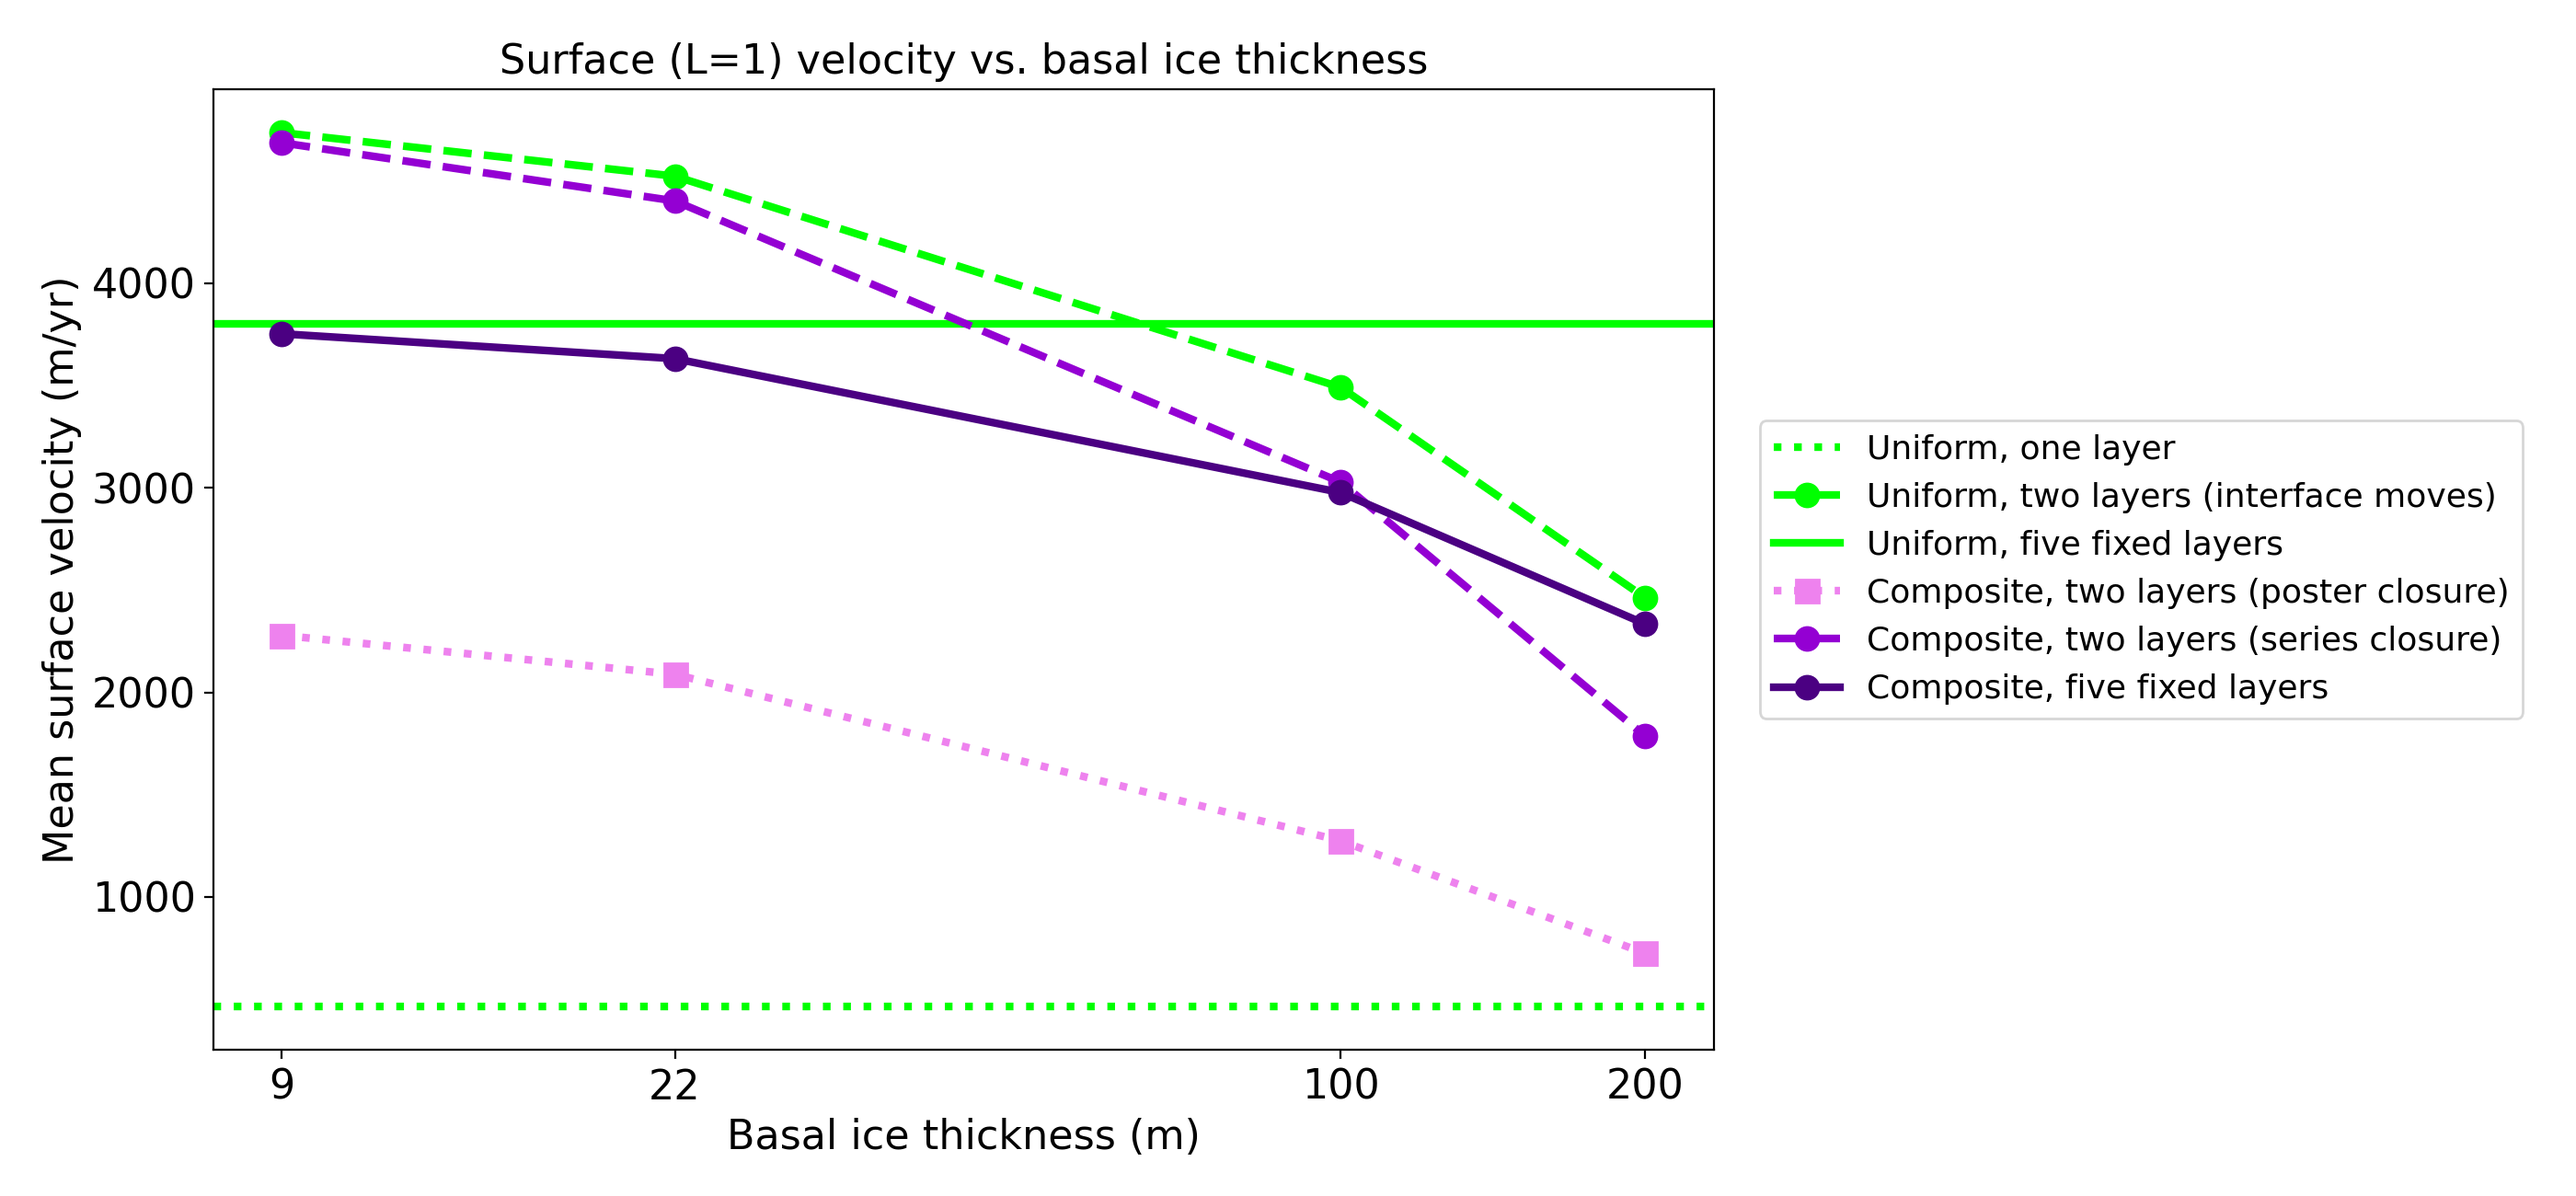
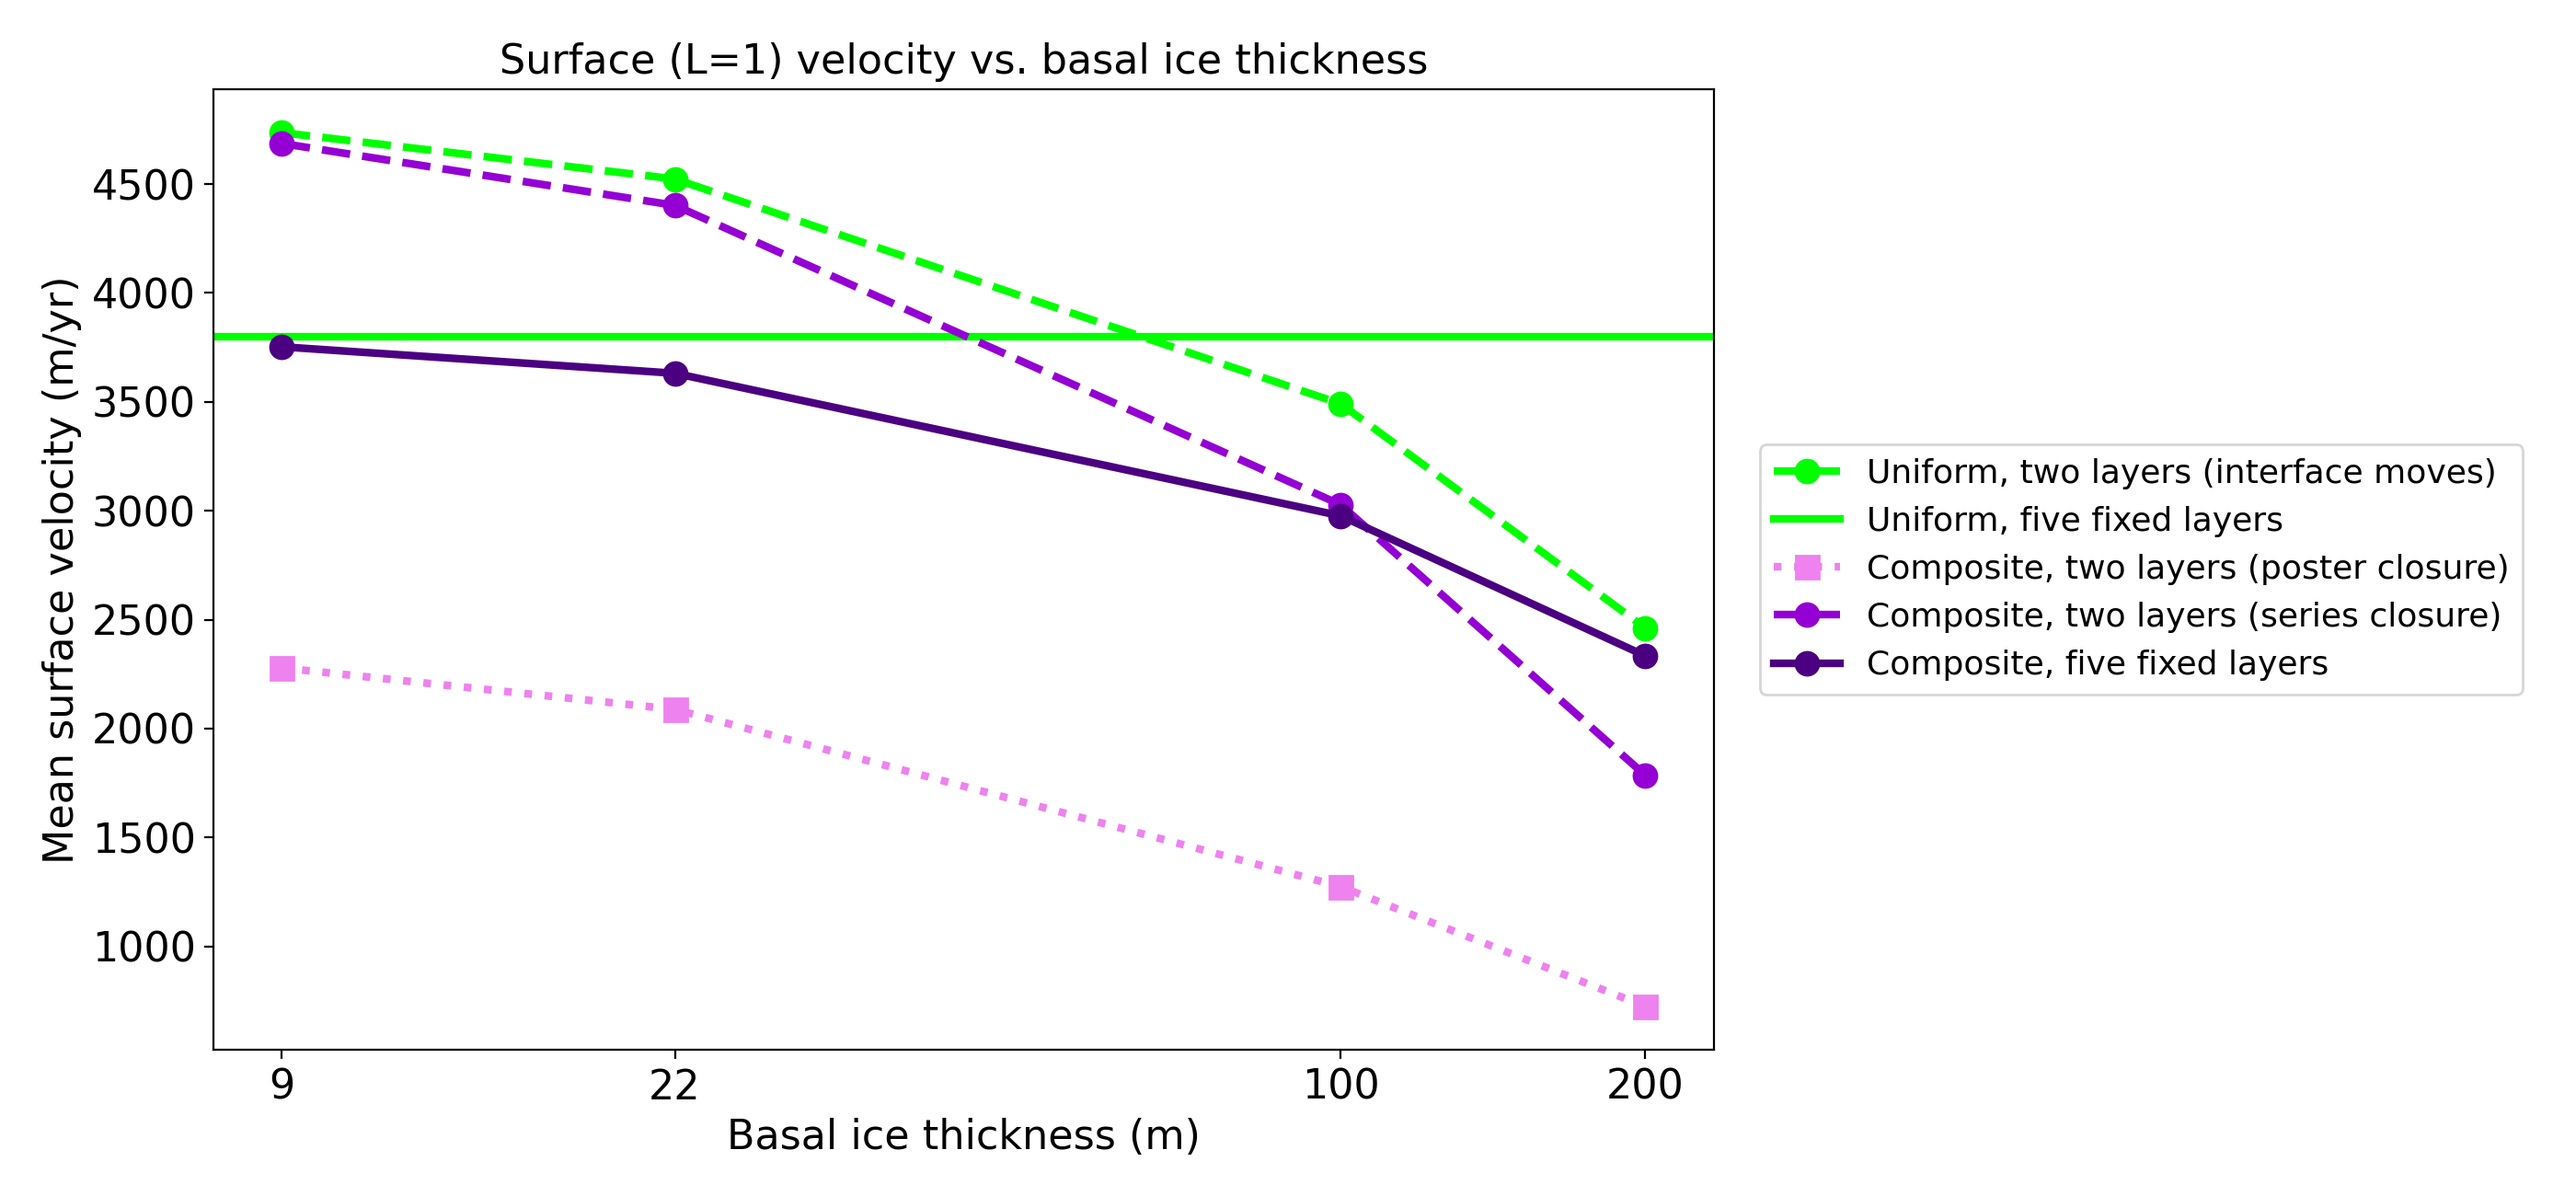
Remove the one-layer run, which is plain SSA
The one-layer column reduces to SSA, already covered by the multilayer
package's own ISMIP-HOM D experiment.

diff --git a/experiments.py b/experiments.py
@@ -7,7 +7,6 @@ resolves vertical shear.  Here the interfaces are seeded once, at every
 basal-layer height the poster used, and only the assignment of rheology to
 layers changes:
 
-``uniform``   one layer of stratigraphic ice: the plug-flow reference.
 ``fixed``    the seeded column; the bottom k layers soft, the rest cold,
               k = 0 .. len(INTERFACE_HEIGHTS).
 ``variable``  the poster's two-layer column, interface at each height,
@@ -69,7 +68,7 @@ def runs(heights=INTERFACE_HEIGHTS, soft=SOFT, cold=COLD):
     """Every run as (experiment, tag, fractions, laws, basal fraction)."""
     fractions = seeded_fractions(heights)
     tops = np.cumsum(fractions)
-    out = [("uniform", "L1", (1.0,), (cold,), 0.0, "series")]
+    out = []
     for k in range(len(fractions)):
         laws = (soft,) * k + (cold,) * (len(fractions) - k)
         out.append(("fixed", f"k{k}", fractions, laws,
@@ -113,7 +112,7 @@ def main():
     parser.add_argument("--nx", type=int, default=40,
                         help="cells per side (default %(default)d)")
     parser.add_argument("--only", nargs="+",
-                        choices=("uniform", "fixed", "variable", "poster", "split", "refine"),
+                        choices=("fixed", "variable", "poster", "split", "refine"),
                         help="run only these experiments; 'refine' is slow "
                              "(10+ min per 20-layer run) and runs only when named")
     parser.add_argument("--force", action="store_true",

diff --git a/plot_results.py b/plot_results.py
@@ -109,11 +109,8 @@ def summary(directory, path):
         [mean_surface(load(directory, e, f"h{h:.4f}")) for h in heights]
         for e in ("variable", "poster", "split"))
     uniform5 = mean_surface(load(directory, "fixed", "k0"))
-    uniform1 = mean_surface(load(directory, "uniform", "L1"))
 
     fig, ax = plt.subplots(figsize=(14, 6.5))
-    ax.axhline(uniform1, color=ps.UNIFORM, lw=3, ls=":",
-               label="Uniform, one layer")
     ax.plot(metres, split, "o--", color=ps.UNIFORM, lw=3, ms=9,
             label="Uniform, two layers (interface moves)")
     ax.axhline(uniform5, color=ps.UNIFORM, lw=3,

diff --git a/readme.md b/readme.md
@@ -33,7 +33,7 @@ the whole jump (multilayer's default); that is kept as `interface="below"`.
 
 ## Experiments
 
-`experiments.py` runs five sets by default, plus the opt-in `refine` set
+`experiments.py` runs four sets by default, plus the opt-in `refine` set
 (see [Vertical resolution](#vertical-resolution)); layers are numbered
 from the surface down in the figures, as on the poster (L = 1 is the
 surface layer).
@@ -44,7 +44,6 @@ surface layer).
 | `variable` | two layers, interface at each height | basal below, stratigraphic above | series |
 | `poster` | the same | the same | below (the poster's) |
 | `split` | the same | stratigraphic throughout | (either; one law) |
-| `uniform` | one layer | stratigraphic | none |
 
 Mean surface (L = 1) speed, m/yr, along the centreline:
 
@@ -86,9 +85,8 @@ Two-layer runs, for comparison: `figures/two_layer_series.png`,
 
 ## Vertical resolution
 
-Five layers are not converged: the top layer is two thirds of the column,
-and the one-layer model (plug flow, 463 m/yr) shows how much vertical shear
-a coarse column misses. Subdividing every seeded layer (the `refine` set):
+Five layers are not converged: the top layer is two thirds of the column.
+Subdividing every seeded layer (the `refine` set):
 
 | layers | no basal ice | basal ice 200 m | ratio |
 |---|---|---|---|
